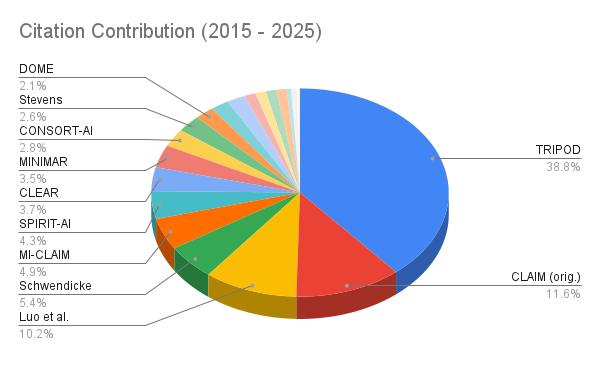
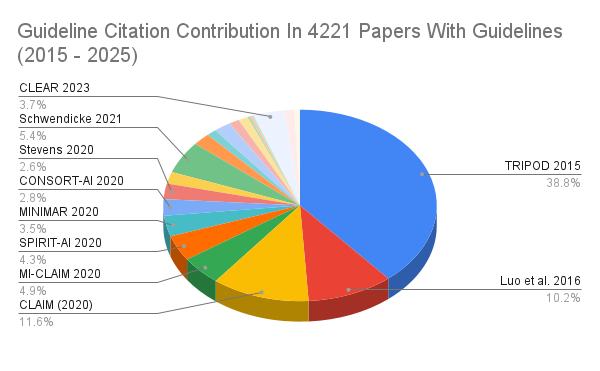
Update title and citation contribution images
Fixed the LaTeX document title formatting in main.tex and updated the citation contribution PNG images for 2015-2025 and 2020-2025.

diff --git a/main.tex b/main.tex
@@ -15,8 +15,7 @@
 \usepackage{tabularx,booktabs}
 \newcolumntype{Y}{>{\raggedright\arraybackslash}X}
 
-\title{About
-From Accuracy to Adoption: Explainability and Reporting Standards in Medical Imaging AI}
+\title{From Accuracy to Adoption: Explainability and Reporting Standards in Medical Imaging AI}
 \author{Alan Weng, Nipun Deelaka Pathirage, Neha Keshan}
 
 \begin{document}
